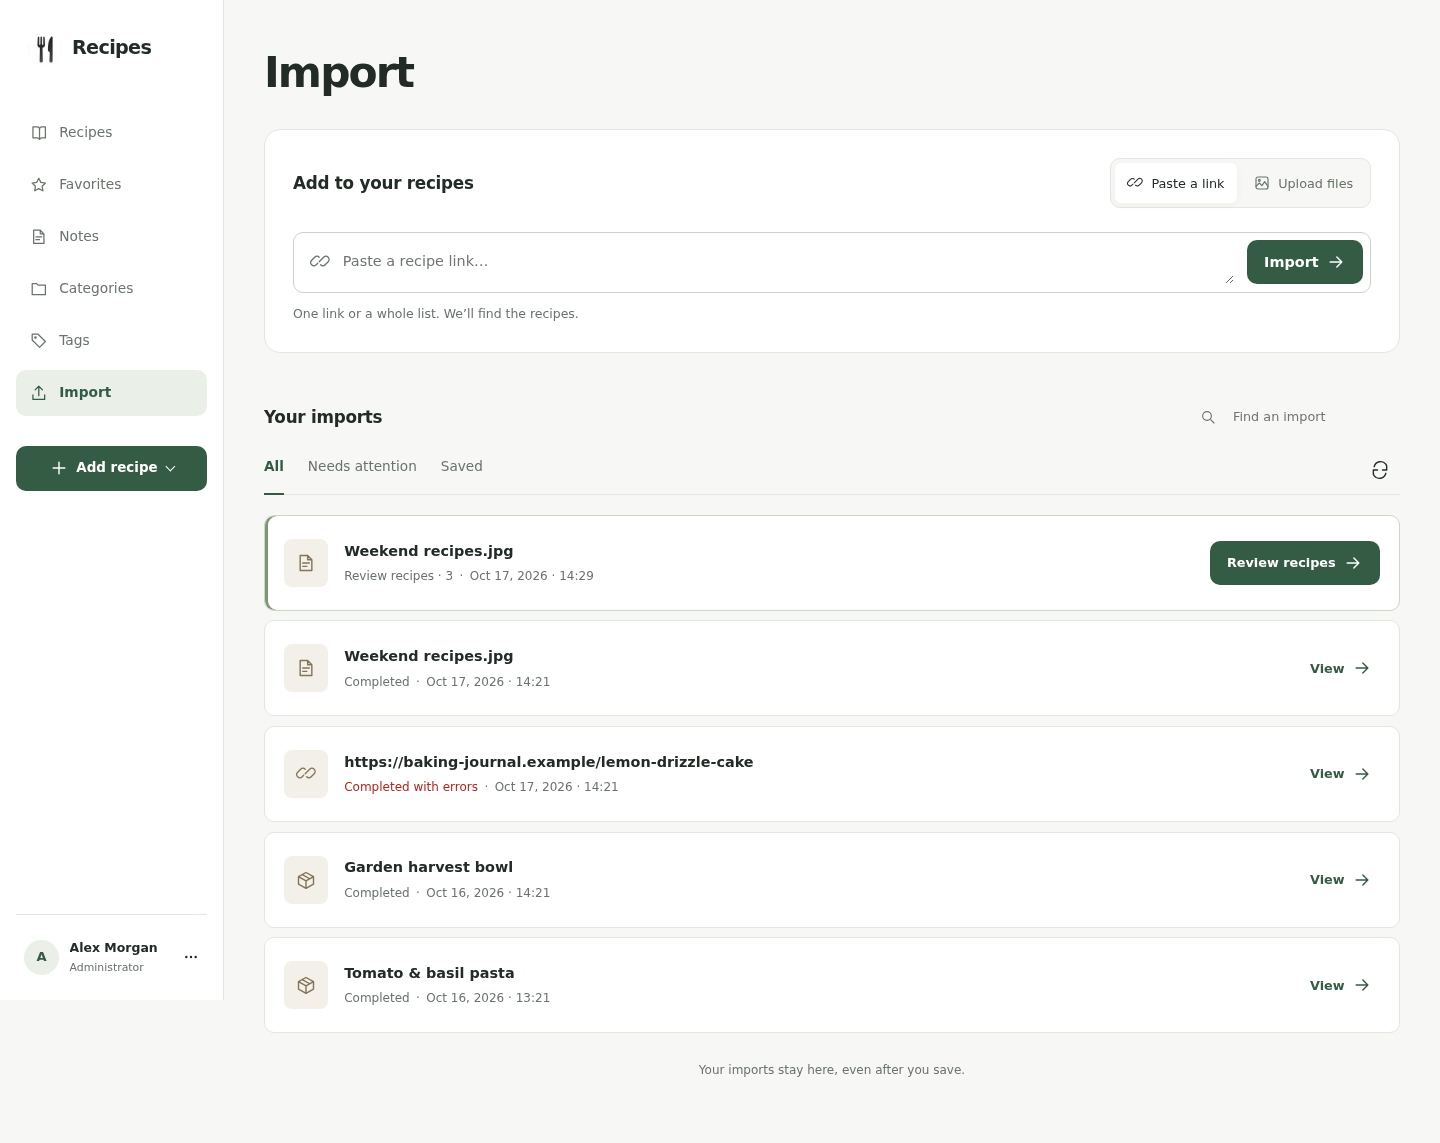
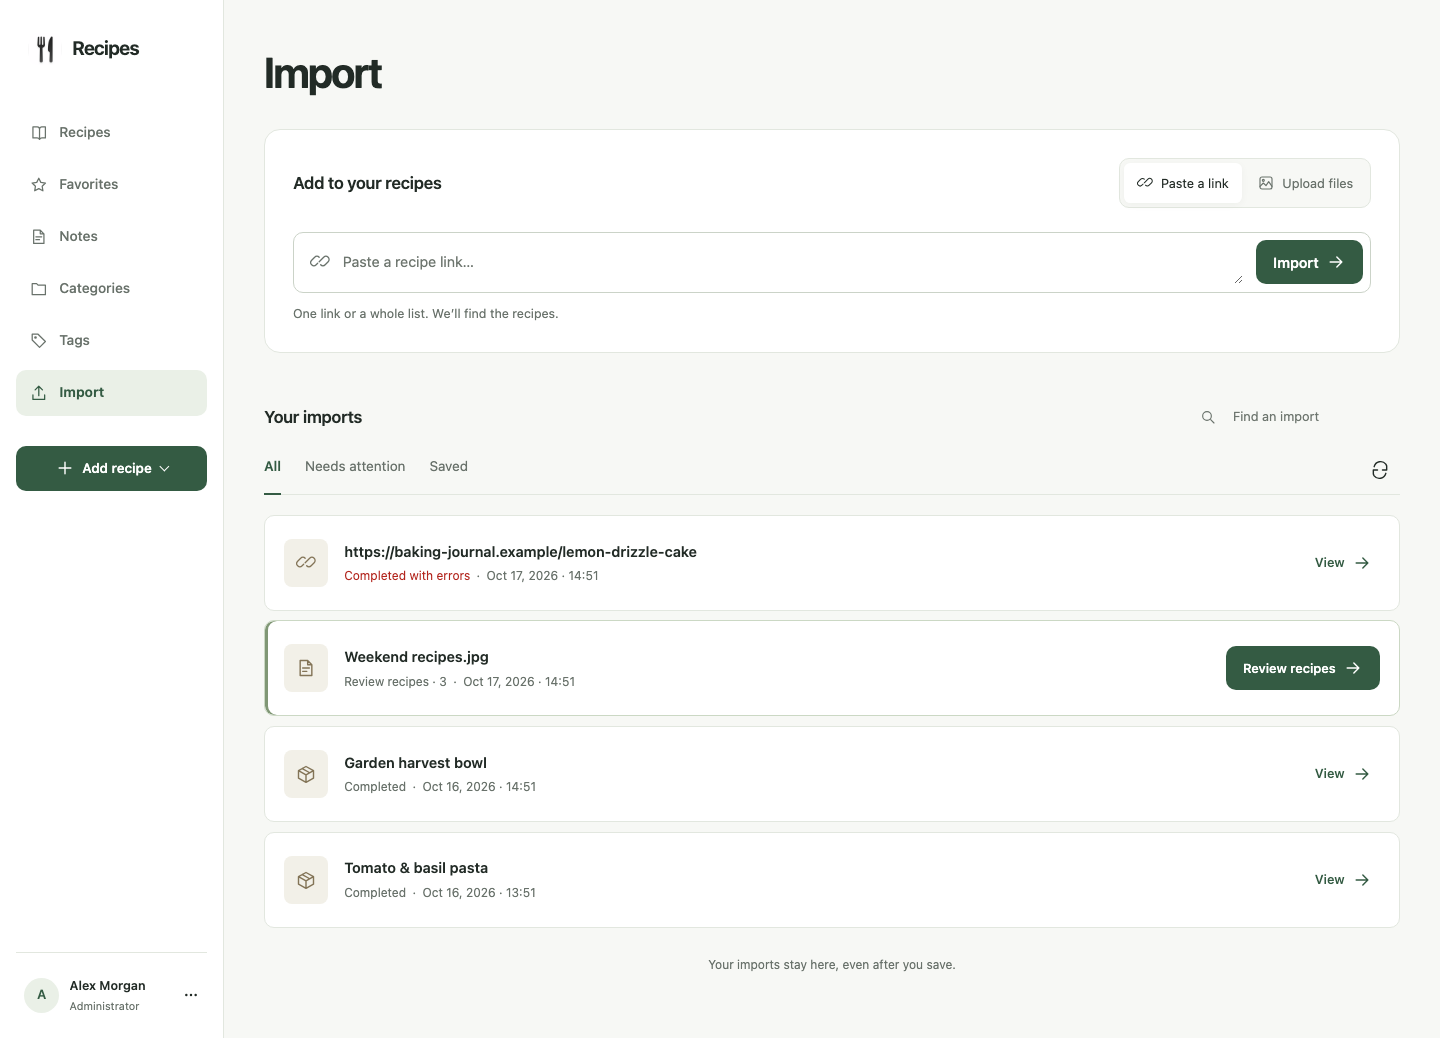
Capture full-height desktop screenshots without sidebar cutoff

diff --git a/docs/images/import-workspace/README.md b/docs/images/import-workspace/README.md
@@ -1,6 +1,6 @@
 # Import workspace visual proof
 
-Screenshots of the real FastAPI application rendered in Linux Chromium at 1440 px and 390 px widths. The app uses seeded demonstration imports and food photos; no production data is shown.
+Screenshots of the real FastAPI application rendered in Chromium at 1440 px and 390 px widths. The app uses seeded demonstration imports and food photos; no production data is shown.
 
 - `workspace-*`: the combined composer, searchable history, and status filters.
 - `upload-*`: photos/PDF upload and the recipe-package option.
